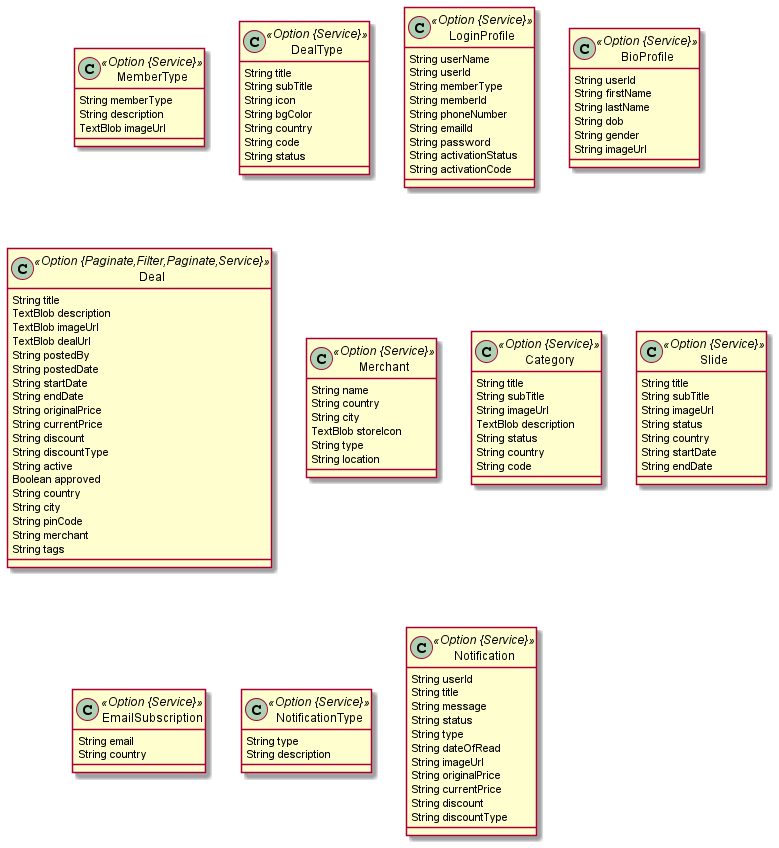
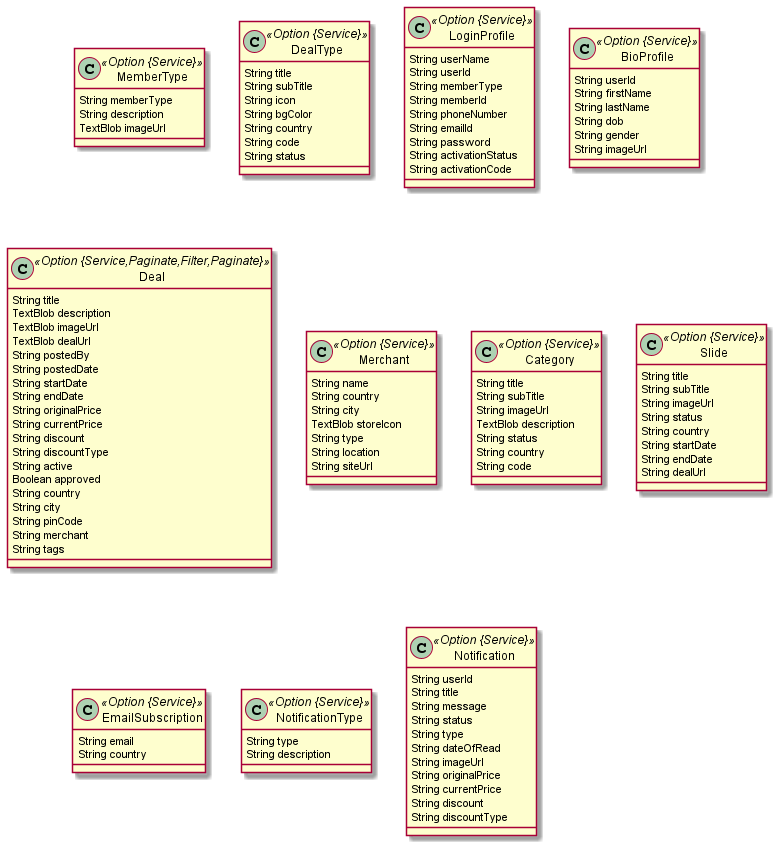
updated tables

Changed region(s): [[0.801, 0.3679, 1.0, 0.6132], [0.3697, 0.3679, 0.5854, 0.5825], [0.1232, 0.3066, 0.3081, 0.3373]]

diff --git a/src/main/webapp/app/entities/merchant/merchant.test-samples.ts b/src/main/webapp/app/entities/merchant/merchant.test-samples.ts
@@ -5,21 +5,23 @@ export const sampleWithRequiredData: IMerchant = {
 };
 
 export const sampleWithPartialData: IMerchant = {
-  id: 62419,
-  country: 'French Guiana',
+  id: 29592,
+  country: 'Senegal',
   storeIcon: '../fake-data/blob/hipster.txt',
-  type: 'Investor functionalities Health',
-  location: 'Naira Human',
+  type: 'Market Legacy Cambridgeshire',
+  location: 'Hawaii Customer Sausages',
+  siteUrl: 'Operations Branch Shoes',
 };
 
 export const sampleWithFullData: IMerchant = {
-  id: 15862,
-  name: 'Factors',
-  country: 'Uruguay',
-  city: 'Chayaport',
+  id: 57040,
+  name: 'Ergonomic Pound',
+  country: 'Taiwan',
+  city: 'Considinemouth',
   storeIcon: '../fake-data/blob/hipster.txt',
-  type: 'web-readiness',
-  location: 'Nebraska',
+  type: 'Bedfordshire Tactics Maine',
+  location: 'Congolese program Central',
+  siteUrl: 'navigating Buckinghamshire',
 };
 
 export const sampleWithNewData: NewMerchant = {

diff --git a/src/main/webapp/app/entities/slide/slide.test-samples.ts b/src/main/webapp/app/entities/slide/slide.test-samples.ts
@@ -5,19 +5,20 @@ export const sampleWithRequiredData: ISlide = {
 };
 
 export const sampleWithPartialData: ISlide = {
-  id: 21312,
-  startDate: 'enable disintermediate',
+  id: 55451,
+  startDate: 'Plastic e-enable',
 };
 
 export const sampleWithFullData: ISlide = {
-  id: 59641,
-  title: 'Diverse Assurance yellow',
-  subTitle: 'Pants Plastic Self-enabling',
-  imageUrl: 'port framework',
-  status: 'user-centric B2C Pre-emptive',
-  country: 'Ukraine',
-  startDate: 'encompassing HTTP',
-  endDate: 'teal',
+  id: 94716,
+  title: 'azure',
+  subTitle: 'Bedfordshire Producer Lakes',
+  imageUrl: 'Plastic Self-enabling Buckinghamshire',
+  status: 'framework navigate',
+  country: 'Luxembourg',
+  startDate: '24/7 Account',
+  endDate: 'encompassing HTTP',
+  dealUrl: 'teal',
 };
 
 export const sampleWithNewData: NewSlide = {

diff --git a/src/main/webapp/app/entities/slide/list/slide.component.html b/src/main/webapp/app/entities/slide/list/slide.component.html
@@ -80,6 +80,12 @@
               <fa-icon class="p-1" icon="sort"></fa-icon>
             </div>
           </th>
+          <th scope="col" jhiSortBy="dealUrl">
+            <div class="d-flex">
+              <span>Deal Url</span>
+              <fa-icon class="p-1" icon="sort"></fa-icon>
+            </div>
+          </th>
           <th scope="col"></th>
         </tr>
       </thead>
@@ -95,6 +101,7 @@
           <td>{{ slide.country }}</td>
           <td>{{ slide.startDate }}</td>
           <td>{{ slide.endDate }}</td>
+          <td>{{ slide.dealUrl }}</td>
           <td class="text-end">
             <div class="btn-group">
               <button type="submit" [routerLink]="['/slide', slide.id, 'view']" class="btn btn-info btn-sm" data-cy="entityDetailsButton">

diff --git a/src/test/javascript/e2e/entities/merchant/merchant.page-object.ts b/src/test/javascript/e2e/entities/merchant/merchant.page-object.ts
@@ -36,6 +36,7 @@ export class MerchantUpdatePage {
   storeIconInput = element(by.id('field_storeIcon'));
   typeInput = element(by.id('field_type'));
   locationInput = element(by.id('field_location'));
+  siteUrlInput = element(by.id('field_siteUrl'));
 
   async getPageTitle(): Promise<string> {
     return this.pageTitle.getText();
@@ -95,6 +96,14 @@ export class MerchantUpdatePage {
 
   async getLocationInput(): Promise<string> {
     return await this.locationInput.getAttribute('value');
+  }
+
+  async setSiteUrlInput(siteUrl: string): Promise<void> {
+    await this.siteUrlInput.sendKeys(siteUrl);
+  }
+
+  async getSiteUrlInput(): Promise<string> {
+    return await this.siteUrlInput.getAttribute('value');
   }
 
   async save(): Promise<void> {

diff --git a/src/test/javascript/e2e/entities/slide/slide.page-object.ts b/src/test/javascript/e2e/entities/slide/slide.page-object.ts
@@ -37,6 +37,7 @@ export class SlideUpdatePage {
   countryInput = element(by.id('field_country'));
   startDateInput = element(by.id('field_startDate'));
   endDateInput = element(by.id('field_endDate'));
+  dealUrlInput = element(by.id('field_dealUrl'));
 
   async getPageTitle(): Promise<string> {
     return this.pageTitle.getText();
@@ -104,6 +105,14 @@ export class SlideUpdatePage {
 
   async getEndDateInput(): Promise<string> {
     return await this.endDateInput.getAttribute('value');
+  }
+
+  async setDealUrlInput(dealUrl: string): Promise<void> {
+    await this.dealUrlInput.sendKeys(dealUrl);
+  }
+
+  async getDealUrlInput(): Promise<string> {
+    return await this.dealUrlInput.getAttribute('value');
   }
 
   async save(): Promise<void> {

diff --git a/src/main/webapp/app/entities/merchant/list/merchant.component.html b/src/main/webapp/app/entities/merchant/list/merchant.component.html
@@ -74,6 +74,12 @@
               <fa-icon class="p-1" icon="sort"></fa-icon>
             </div>
           </th>
+          <th scope="col" jhiSortBy="siteUrl">
+            <div class="d-flex">
+              <span>Site Url</span>
+              <fa-icon class="p-1" icon="sort"></fa-icon>
+            </div>
+          </th>
           <th scope="col"></th>
         </tr>
       </thead>
@@ -88,6 +94,7 @@
           <td>{{ merchant.storeIcon }}</td>
           <td>{{ merchant.type }}</td>
           <td>{{ merchant.location }}</td>
+          <td>{{ merchant.siteUrl }}</td>
           <td class="text-end">
             <div class="btn-group">
               <button

diff --git a/src/main/webapp/app/entities/merchant/update/merchant-form.service.ts b/src/main/webapp/app/entities/merchant/update/merchant-form.service.ts
@@ -24,6 +24,7 @@ type MerchantFormGroupContent = {
   storeIcon: FormControl<IMerchant['storeIcon']>;
   type: FormControl<IMerchant['type']>;
   location: FormControl<IMerchant['location']>;
+  siteUrl: FormControl<IMerchant['siteUrl']>;
 };
 
 export type MerchantFormGroup = FormGroup<MerchantFormGroupContent>;
@@ -49,6 +50,7 @@ export class MerchantFormService {
       storeIcon: new FormControl(merchantRawValue.storeIcon),
       type: new FormControl(merchantRawValue.type),
       location: new FormControl(merchantRawValue.location),
+      siteUrl: new FormControl(merchantRawValue.siteUrl),
     });
   }
 

diff --git a/src/main/webapp/app/entities/slide/update/slide-form.service.ts b/src/main/webapp/app/entities/slide/update/slide-form.service.ts
@@ -25,6 +25,7 @@ type SlideFormGroupContent = {
   country: FormControl<ISlide['country']>;
   startDate: FormControl<ISlide['startDate']>;
   endDate: FormControl<ISlide['endDate']>;
+  dealUrl: FormControl<ISlide['dealUrl']>;
 };
 
 export type SlideFormGroup = FormGroup<SlideFormGroupContent>;
@@ -51,6 +52,7 @@ export class SlideFormService {
       country: new FormControl(slideRawValue.country),
       startDate: new FormControl(slideRawValue.startDate),
       endDate: new FormControl(slideRawValue.endDate),
+      dealUrl: new FormControl(slideRawValue.dealUrl),
     });
   }
 

diff --git a/src/main/webapp/app/entities/merchant/update/merchant-update.component.html b/src/main/webapp/app/entities/merchant/update/merchant-update.component.html
@@ -40,6 +40,11 @@
           <label class="form-label" for="field_location">Location</label>
           <input type="text" class="form-control" name="location" id="field_location" data-cy="location" formControlName="location" />
         </div>
+
+        <div class="row mb-3">
+          <label class="form-label" for="field_siteUrl">Site Url</label>
+          <input type="text" class="form-control" name="siteUrl" id="field_siteUrl" data-cy="siteUrl" formControlName="siteUrl" />
+        </div>
       </div>
 
       <div>

diff --git a/src/main/webapp/app/entities/merchant/update/merchant-form.service.spec.ts b/src/main/webapp/app/entities/merchant/update/merchant-form.service.spec.ts
@@ -26,6 +26,7 @@ describe('Merchant Form Service', () => {
             storeIcon: expect.any(Object),
             type: expect.any(Object),
             location: expect.any(Object),
+            siteUrl: expect.any(Object),
           })
         );
       });
@@ -42,6 +43,7 @@ describe('Merchant Form Service', () => {
             storeIcon: expect.any(Object),
             type: expect.any(Object),
             location: expect.any(Object),
+            siteUrl: expect.any(Object),
           })
         );
       });

diff --git a/src/main/webapp/app/entities/slide/update/slide-form.service.spec.ts b/src/main/webapp/app/entities/slide/update/slide-form.service.spec.ts
@@ -27,6 +27,7 @@ describe('Slide Form Service', () => {
             country: expect.any(Object),
             startDate: expect.any(Object),
             endDate: expect.any(Object),
+            dealUrl: expect.any(Object),
           })
         );
       });
@@ -44,6 +45,7 @@ describe('Slide Form Service', () => {
             country: expect.any(Object),
             startDate: expect.any(Object),
             endDate: expect.any(Object),
+            dealUrl: expect.any(Object),
           })
         );
       });

diff --git a/src/main/webapp/app/entities/slide/update/slide-update.component.html b/src/main/webapp/app/entities/slide/update/slide-update.component.html
@@ -45,6 +45,11 @@
           <label class="form-label" for="field_endDate">End Date</label>
           <input type="text" class="form-control" name="endDate" id="field_endDate" data-cy="endDate" formControlName="endDate" />
         </div>
+
+        <div class="row mb-3">
+          <label class="form-label" for="field_dealUrl">Deal Url</label>
+          <input type="text" class="form-control" name="dealUrl" id="field_dealUrl" data-cy="dealUrl" formControlName="dealUrl" />
+        </div>
       </div>
 
       <div>
